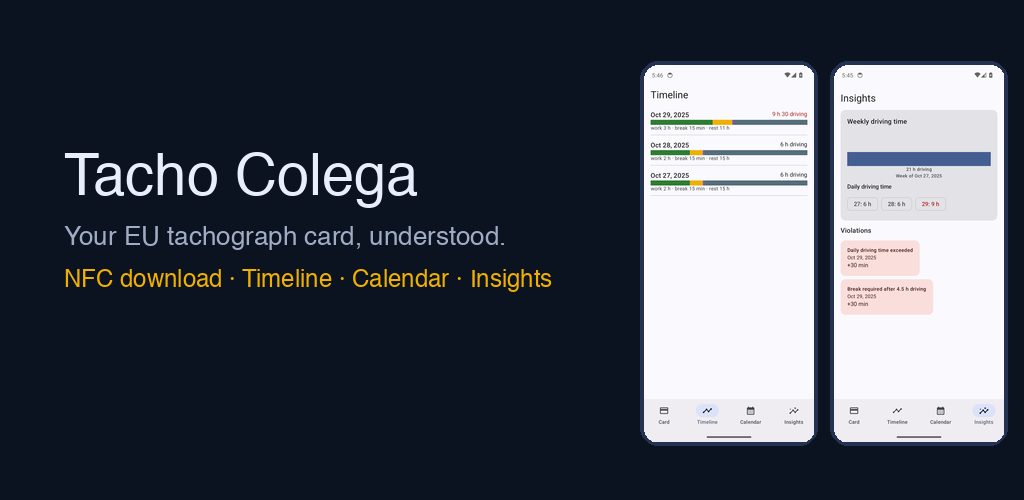
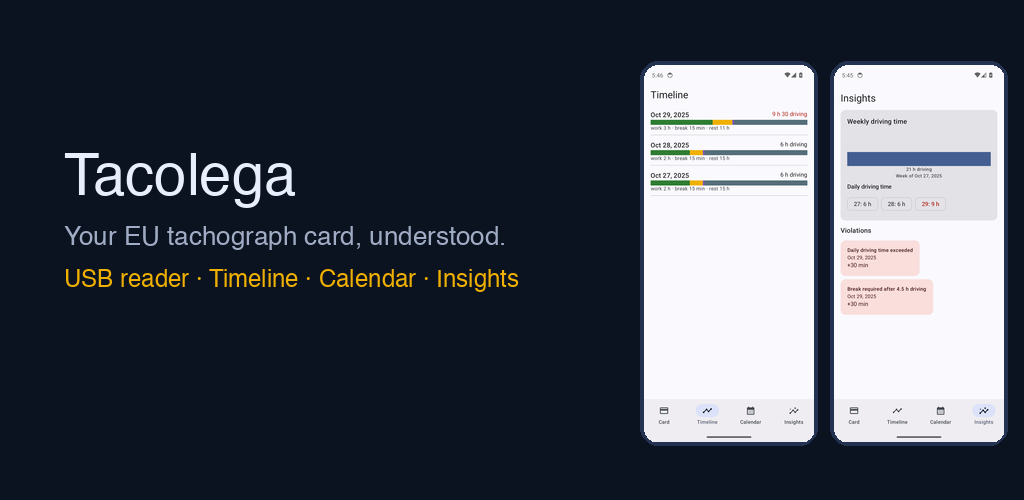
brand: rename the app to Tacolega
Display name only - the applicationId (eu.colega.tacho), the repo and
the tacho.colega.eu domain stay as they are, so installed builds update
in place. Play listing, feature graphic, site and README renamed too.

Changed region(s): [[0.1562, 0.3, 0.4062, 0.42], [0.0625, 0.54, 0.5625, 0.6]]

diff --git a/site/es.html b/site/es.html
@@ -3,7 +3,7 @@
 <head>
   <meta charset="utf-8" />
   <meta name="viewport" content="width=device-width, initial-scale=1" />
-  <title>Tacho Colega — tu tarjeta de tacógrafo, entendida</title>
+  <title>Tacolega — tu tarjeta de tacógrafo, entendida</title>
   <meta name="description" content="Descarga tu tarjeta de tacógrafo UE con un lector de tarjetas USB y obtén cronología diaria, calendario mensual y análisis de tiempos de conducción conforme a las normas europeas. Android, español e inglés." />
   <link rel="icon" href="favicon.svg" type="image/svg+xml" />
   <link rel="stylesheet" href="style.css" />
@@ -18,7 +18,7 @@
           <rect x="6" y="10" width="20" height="12" rx="2.5" fill="#ffb300"/>
           <path d="M9 18h3l2-5 2 8 2-5h5" stroke="#241a00" stroke-width="1.8" stroke-linecap="round" stroke-linejoin="round" fill="none"/>
         </svg>
-        Tacho Colega
+        Tacolega
       </a>
       <span class="nav-spacer"></span>
       <nav class="lang-switch" aria-label="Idioma">
@@ -37,7 +37,7 @@
           <h1>Tu tarjeta de tacógrafo, <span class="accent">entendida</span>.</h1>
           <p class="lede">
             Conecta un lector de tarjetas USB con tu tarjeta de conductor al teléfono.
-            Tacho Colega lee todos los archivos de la tarjeta — sin PC, sin taller — y los
+            Tacolega lee todos los archivos de la tarjeta — sin PC, sin taller — y los
             convierte en cronología, calendario y análisis de tiempos claros.
           </p>
           <div class="hero-cta">
@@ -48,7 +48,7 @@
         </div>
         <div class="phone" aria-hidden="true">
           <div class="screen screen-photo">
-            <img src="img/timeline.jpg" alt="Pantalla de cronología de Tacho Colega" />
+            <img src="img/timeline.jpg" alt="Pantalla de cronología de Tacolega" />
           </div>
         </div>
       </div>
@@ -146,7 +146,7 @@
             </div>
             <div>
               <h3>Herramienta independiente</h3>
-              <p>Tacho Colega no es un equipo oficial conforme al Reglamento (UE) 165/2014; complementa la unidad de vehículo, nunca la sustituye.</p>
+              <p>Tacolega no es un equipo oficial conforme al Reglamento (UE) 165/2014; complementa la unidad de vehículo, nunca la sustituye.</p>
             </div>
           </div>
         </div>
@@ -155,7 +155,7 @@
 
     <section id="get" style="text-align:center; padding-block: 80px;">
       <div class="container">
-        <h2 class="section-title">Consigue Tacho Colega</h2>
+        <h2 class="section-title">Consigue Tacolega</h2>
         <p class="section-sub" style="margin-inline:auto;">Gratis. Lee cualquier tarjeta de conductor de la UE con un lector de tarjetas USB.</p>
         <a class="btn btn-accent" href="https://play.google.com/store/apps/details?id=eu.colega.tacho">Descargar en Google Play</a>
       </div>

diff --git a/site/index.html b/site/index.html
@@ -3,7 +3,7 @@
 <head>
   <meta charset="utf-8" />
   <meta name="viewport" content="width=device-width, initial-scale=1" />
-  <title>Tacho Colega — your EU tachograph card, understood</title>
+  <title>Tacolega — your EU tachograph card, understood</title>
   <meta name="description" content="Download your EU tachograph card with a USB card reader and get a daily timeline, a month calendar and driving-time insights checked against EU rules. Android, English and Spanish." />
   <link rel="icon" href="favicon.svg" type="image/svg+xml" />
   <link rel="stylesheet" href="style.css" />
@@ -18,7 +18,7 @@
           <rect x="6" y="10" width="20" height="12" rx="2.5" fill="#ffb300"/>
           <path d="M9 18h3l2-5 2 8 2-5h5" stroke="#241a00" stroke-width="1.8" stroke-linecap="round" stroke-linejoin="round" fill="none"/>
         </svg>
-        Tacho Colega
+        Tacolega
       </a>
       <span class="nav-spacer"></span>
       <nav class="lang-switch" aria-label="Language">
@@ -36,7 +36,7 @@
           <span class="eyebrow">For professional drivers</span>
           <h1>Your tachograph card, <span class="accent">understood</span>.</h1>
           <p class="lede">
-            Plug a USB card reader with your EU driver card into your phone. Tacho Colega
+            Plug a USB card reader with your EU driver card into your phone. Tacolega
             reads every file on the card — no PC, no workshop visit — and turns it into
             a timeline, a calendar and clear driving-time insights.
           </p>
@@ -48,7 +48,7 @@
         </div>
         <div class="phone" aria-hidden="true">
           <div class="screen screen-photo">
-            <img src="img/timeline.jpg" alt="Tacho Colega timeline screen" />
+            <img src="img/timeline.jpg" alt="Tacolega timeline screen" />
           </div>
         </div>
         
@@ -147,7 +147,7 @@
             </div>
             <div>
               <h3>Independent tool</h3>
-              <p>Tacho Colega is not official equipment under Regulation (EU) 165/2014; it complements the vehicle unit, never replaces it.</p>
+              <p>Tacolega is not official equipment under Regulation (EU) 165/2014; it complements the vehicle unit, never replaces it.</p>
             </div>
           </div>
         </div>
@@ -156,7 +156,7 @@
 
     <section id="get" style="text-align:center; padding-block: 80px;">
       <div class="container">
-        <h2 class="section-title">Get Tacho Colega</h2>
+        <h2 class="section-title">Get Tacolega</h2>
         <p class="section-sub" style="margin-inline:auto;">Free. Reads any EU driver card with a USB card reader.</p>
         <a class="btn btn-accent" href="https://play.google.com/store/apps/details?id=eu.colega.tacho">Download on Google Play</a>
       </div>

diff --git a/site/style.css b/site/style.css
@@ -1,4 +1,4 @@
-/* Tacho Colega — landing page */
+/* Tacolega — landing page */
 
 :root {
   --bg: #0b1220;

diff --git a/store/listing-es.md b/store/listing-es.md
@@ -1,13 +1,13 @@
 # Play Store listing — Spanish
 
 ## Título de la app (máx. 30 caracteres)
-Tacho Colega — tarjeta tacógrafo
+Tacolega — tarjeta tacógrafo
 
 ## Descripción corta (máx. 80 caracteres)
 Descarga tu tarjeta de tacógrafo UE por NFC. Cronología, calendario y análisis.
 
 ## Descripción completa
-Tacho Colega convierte tu tarjeta de tacógrafo europea en algo que de verdad puedes usar.
+Tacolega convierte tu tarjeta de tacógrafo europea en algo que de verdad puedes usar.
 
 Apoya tu tarjeta de conductor en la parte trasera de tu teléfono con NFC y la app lee
 todos sus archivos: sin cables, sin PC, sin visita al taller.
@@ -41,6 +41,6 @@ PRIVACIDAD
 Los datos de tu tarjeta nunca salen del teléfono salvo que tú los exportes. Sin cuenta,
 sin rastreo, sin subidas.
 
-Nota: Tacho Colega es una herramienta independiente para conductores. No es un equipo
+Nota: Tacolega es una herramienta independiente para conductores. No es un equipo
 oficial conforme al Reglamento (UE) 165/2014 y no sustituye a la unidad de vehículo ni a
 ningún registro oficial.

diff --git a/store/listing-en.md b/store/listing-en.md
@@ -1,13 +1,13 @@
 # Play Store listing — English
 
 ## App title (max 30 chars)
-Tacho Colega — tachograph card
+Tacolega — tachograph card
 
 ## Short description (max 80 chars)
 Download your EU tachograph card over NFC. Timeline, calendar and driving-time insights.
 
 ## Full description
-Tacho Colega turns your European tachograph card into something you can actually use.
+Tacolega turns your European tachograph card into something you can actually use.
 
 Hold your driver card against the back of your NFC phone and the app reads every file
 on it — no cables, no PC, no workshop visit.
@@ -40,6 +40,6 @@ PRIVACY
 Your card data never leaves the phone unless you export it yourself. No account,
 no tracking, no uploads.
 
-Note: Tacho Colega is an independent tool for drivers. It is not official equipment
+Note: Tacolega is an independent tool for drivers. It is not official equipment
 under Regulation (EU) 165/2014 and does not replace the vehicle unit or any official
 record.

diff --git a/README.md b/README.md
@@ -1,8 +1,8 @@
-# Tacho Colega
+# Tacolega
 
 **Read and understand your EU tachograph card — straight from your phone.**
 
-Tacho Colega is an Android app that downloads the contents of a European
+Tacolega is an Android app that downloads the contents of a European
 Union driver tachograph card through a USB card reader and turns it into
 something a driver can actually use: a daily timeline, a month calendar, and driving-time
 insights checked against Regulation (EC) No 561/2006.
@@ -89,6 +89,6 @@ and the 1024×500 feature graphic.
 
 ## License
 
-Tacho Colega is free software: you can redistribute it and/or modify it under
+Tacolega is free software: you can redistribute it and/or modify it under
 the terms of the [GNU General Public License v3](LICENSE) as published by the
 Free Software Foundation.
